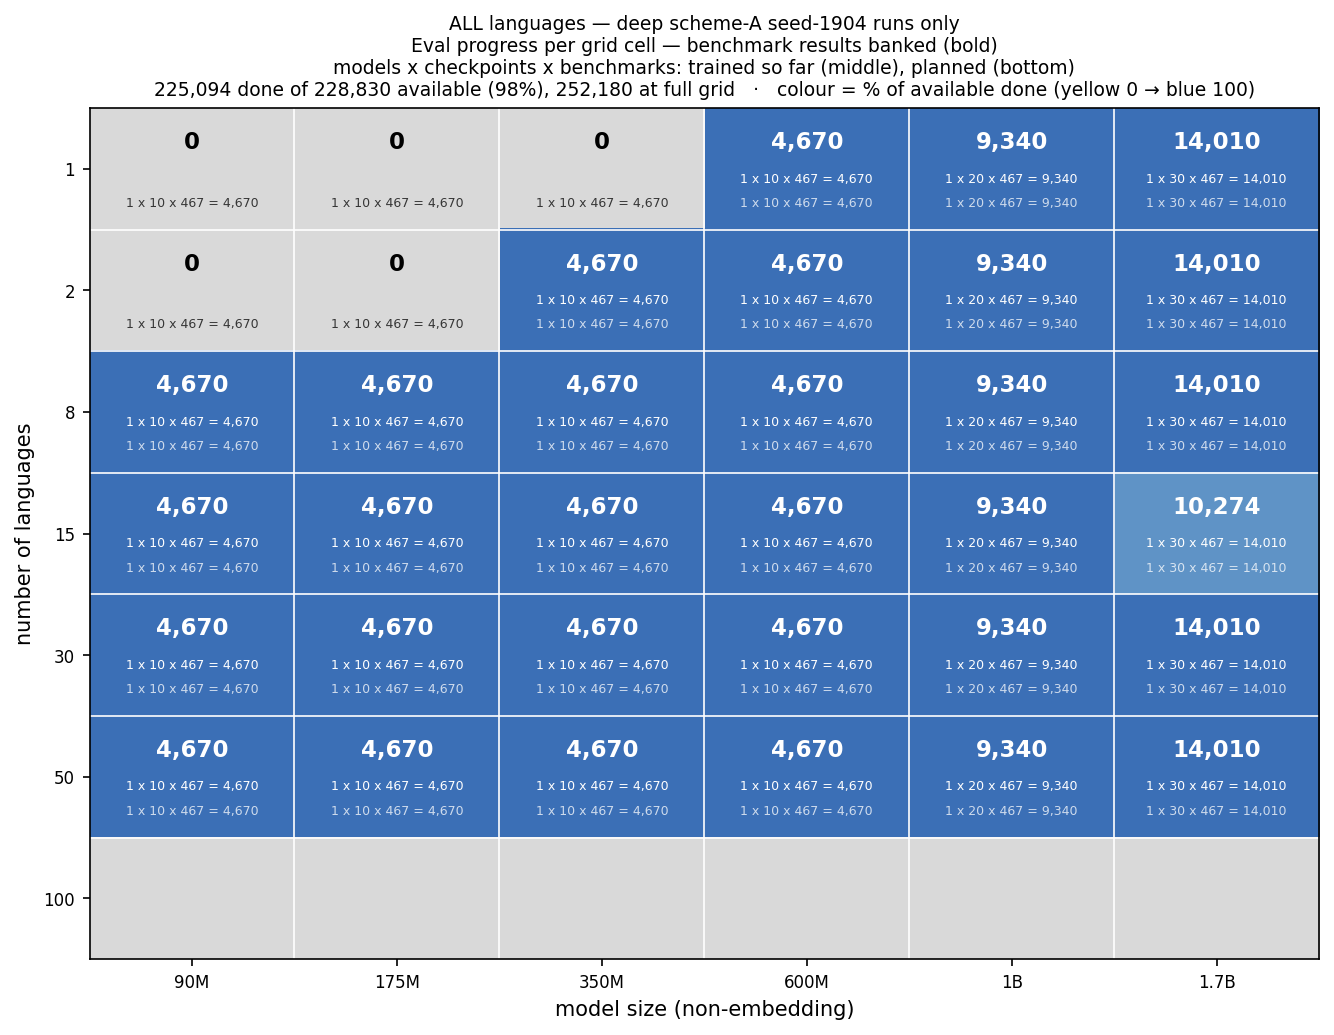
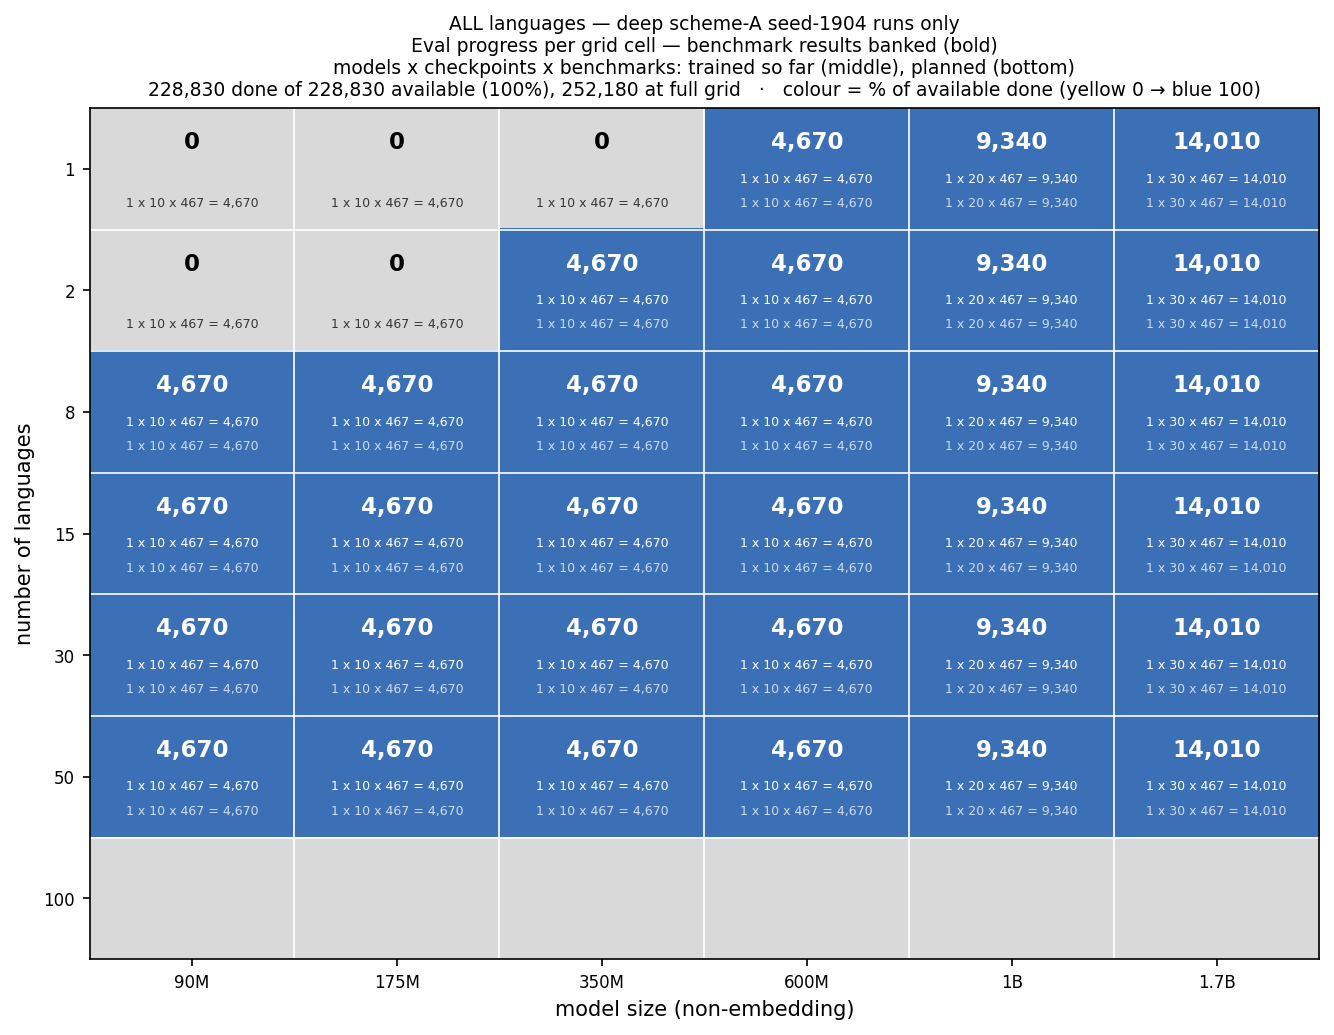
update progress
Snapshot 2026-09-18 14:51 of the 1B/1.7B runs (four more 1B shallow cells
done, 1.7B-L15-shallow running) and the progress heatmaps; the
eval-progress grid no longer carries the 90M rung.

Changed region(s): [[0.8298, 0.4329, 1.0, 0.5874], [0.1229, 0.0618, 0.5532, 0.0928], [0.584, 0.0618, 0.9528, 0.0928]]

diff --git a/src/pretrain/pretrain_progress_1b_17b.md b/src/pretrain/pretrain_progress_1b_17b.md
@@ -3,7 +3,7 @@
 <!-- Generated by pretrain_progress.py (--plot, every `launch_trainings.py cscs`
 launch, every auto-eval watcher pass) — do not edit. -->
 
-Snapshot 2026-09-17 11:57. One row per planned run, deep then shallow, of
+Snapshot 2026-09-18 15:22. One row per planned run, deep then shallow, of
 every account: the queue is read for all users, the training logs from both
 mariagrandury's and aromanou's log dirs, the checkpoints from the shared
 `Meg-Runs/msnr` tree.
@@ -21,7 +21,7 @@ mariagrandury's and aromanou's log dirs, the checkpoints from the shared
   running one does not (what it trains before its exit is subtracted first).
   At `ITER_MS` with 10.8h of training per job.
 
-## 1B — 44 runs: 19 done · 6 queued · 2 idle · 17 not started · ≈ 5,797 node-hours of training left
+## 1B — 44 runs: 23 done · 3 queued · 1 idle · 17 not started · ≈ 4,790 node-hours of training left
 
 | run | data (FineWeb-2) | ckpt / target | % | state | jobs left |
 |---|---|---|---:|---|---:|
@@ -50,19 +50,19 @@ mariagrandury's and aromanou's log dirs, the checkpoints from the shared
 | `lm-1B-L2-ES-deep-seed1904` | `data/ES/fineweb_L2` | 24,003 / 45,720 | 52% | ⚠ idle: nothing queued | 1 |
 | `lm-1B-L1-shallow-seed28` | English only | 0 / 45,920 | 0% | not started | 2 |
 | `lm-1B-L1-shallow-seed1797` | English only | 0 / 45,920 | 0% | not started | 2 |
-| `lm-1B-L1-shallow-seed1904` | English only | 0 / 45,920 | 0% | queued `3409369` (aromanou, PartitionDown) | 2 |
+| `lm-1B-L1-shallow-seed1904` | English only | 45,920 / 45,920 | 100% | done | — |
 | `lm-1B-L2-shallow-seed28` | `data/fineweb_L2` | 0 / 45,920 | 0% | not started | 2 |
 | `lm-1B-L2-shallow-seed1797` | `data/fineweb_L2` | 0 / 45,920 | 0% | not started | 2 |
-| `lm-1B-L2-shallow-seed1904` | `data/fineweb_L2` | 43,027 / 45,920 | 93% | ⚠ idle: nothing queued | 1 |
-| `lm-1B-L8-shallow-seed1904` | `data/fineweb_L8` | 0 / 45,920 | 0% | queued `3409371` (aromanou, PartitionDown) | 2 |
-| `lm-1B-L15-shallow-seed1904` | `data/fineweb_L15` | 0 / 45,920 | 0% | queued `3409372` (aromanou, PartitionDown) | 2 |
+| `lm-1B-L2-shallow-seed1904` | `data/fineweb_L2` | 43,027 / 45,920 | 93% | queued `3424653` (aromanou, QOSGrpNodeLimit), starts ~Fri 18 Sep 16:41 | 1 |
+| `lm-1B-L8-shallow-seed1904` | `data/fineweb_L8` | 0 / 45,920 | 0% | queued `3424654` (aromanou, QOSGrpNodeLimit), starts ~Fri 18 Sep 16:41 | 2 |
+| `lm-1B-L15-shallow-seed1904` | `data/fineweb_L15` | 45,920 / 45,920 | 100% | done | — |
 | `lm-1B-L30-shallow-seed28` | `data/fineweb_L30` | 0 / 45,920 | 0% | not started | 2 |
 | `lm-1B-L30-shallow-seed1797` | `data/fineweb_L30` | 0 / 45,920 | 0% | not started | 2 |
-| `lm-1B-L30-shallow-seed1904` | `data/fineweb_L30` | 0 / 45,920 | 0% | queued `3409373` (aromanou, PartitionDown) | 2 |
+| `lm-1B-L30-shallow-seed1904` | `data/fineweb_L30` | 45,920 / 45,920 | 100% | done | — |
 | `lm-1B-L50-shallow-seed28` | `data/fineweb_L50` | 0 / 45,920 | 0% | not started | 2 |
 | `lm-1B-L50-shallow-seed1797` | `data/fineweb_L50` | 0 / 45,920 | 0% | not started | 2 |
-| `lm-1B-L50-shallow-seed1904` | `data/fineweb_L50` | 0 / 45,920 | 0% | queued `3409374` (aromanou, PartitionDown) | 2 |
-| `lm-1B-L50-AT3-shallow-seed1904` | `data/AT3/fineweb_L50` | 22,960 / 45,920 | 50% | queued `3418344` (mariagrandury, ReqNodeNotAvail, Reserved for maintenance), starts ~Thu 17 Sep 18:00 | 1 |
+| `lm-1B-L50-shallow-seed1904` | `data/fineweb_L50` | 45,920 / 45,920 | 100% | done | — |
+| `lm-1B-L50-AT3-shallow-seed1904` | `data/AT3/fineweb_L50` | 22,960 / 45,920 | 50% | queued `3427719` (mariagrandury, Priority), starts ~Fri 18 Sep 16:38 | 1 |
 | `lm-1B-L100-AT3-shallow-seed1904` | — (not staged) | 0 / 45,920 | 0% | not started | 2 |
 | `lm-1B-L8-schemeB-shallow-seed1904` | `data/schemeB/fineweb_L8` | 0 / 45,920 | 0% | not started | 2 |
 | `lm-1B-L15-schemeB-shallow-seed1904` | `data/schemeB/fineweb_L15` | 0 / 45,920 | 0% | not started | 2 |
@@ -70,7 +70,7 @@ mariagrandury's and aromanou's log dirs, the checkpoints from the shared
 | `lm-1B-L30-schemeB-shallow-seed1797` | `data/schemeB/fineweb_L30` | 0 / 45,920 | 0% | not started | 2 |
 | `lm-1B-L30-schemeB-shallow-seed1904` | `data/schemeB/fineweb_L30` | 0 / 45,920 | 0% | not started | 2 |
 
-## 1.7B — 22 runs: 17 done · 3 queued · 2 not started · ≈ 2,301 node-hours of training left
+## 1.7B — 22 runs: 17 done · 1 running · 2 queued · 2 not started · ≈ 1,782 node-hours of training left
 
 | run | data (FineWeb-2) | ckpt / target | % | state | jobs left |
 |---|---|---|---:|---|---:|
@@ -83,15 +83,15 @@ mariagrandury's and aromanou's log dirs, the checkpoints from the shared
 | `lm-1.7B-L50-AT3-deep-seed1904` | `data/AT3/fineweb_L50` | 81,000 / 81,000 | 100% | done | — |
 | `lm-1.7B-L100-AT3-deep-seed1904` | — (not staged) | 0 / 81,000 | 0% | not started | 3 |
 | `lm-1.7B-L8-schemeB-deep-seed1904` | `data/schemeB/fineweb_L8` | 81,000 / 81,000 | 100% | done | — |
-| `lm-1.7B-L15-schemeB-deep-seed1904` | `data-92B/schemeB/fineweb_L15` | 24,300 / 81,000 | 30% | queued `3415744` (mariagrandury, ReqNodeNotAvail, Reserved for maintenance), starts ~Thu 17 Sep 18:00 | 2 |
+| `lm-1.7B-L15-schemeB-deep-seed1904` | `data-92B/schemeB/fineweb_L15` | 57,954 / 81,000 | 71% | queued `3433427` (mariagrandury, QOSGrpNodeLimit), starts ~Fri 18 Sep 16:44 | 1 |
 | `lm-1.7B-L30-schemeB-deep-seed1904` | `data/schemeB/fineweb_L30` | 81,000 / 81,000 | 100% | done | — |
 | `lm-1.7B-L1-shallow-seed1904` | English only | 80,640 / 80,640 | 100% | done | — |
 | `lm-1.7B-L2-shallow-seed1904` | `data/fineweb_L2` | 80,640 / 80,640 | 100% | done | — |
 | `lm-1.7B-L8-shallow-seed1904` | `data/fineweb_L8` | 80,640 / 80,640 | 100% | done | — |
-| `lm-1.7B-L15-shallow-seed1904` | `data-92B/fineweb_L15` | 31,741 / 80,640 | 39% | queued `3415746` (mariagrandury, ReqNodeNotAvail, Reserved for maintenance), starts ~Thu 17 Sep 18:00 | 2 |
+| `lm-1.7B-L15-shallow-seed1904` | `data-92B/fineweb_L15` | 59,136 / 80,640 | 74% | running `3421166` (mariagrandury), iter 60,162, job ends Fri 18 Sep 18:23 | 1 |
 | `lm-1.7B-L30-shallow-seed1904` | `data/fineweb_L30` | 80,640 / 80,640 | 100% | done | — |
 | `lm-1.7B-L50-shallow-seed1904` | `data-92B/fineweb_L50` | 80,640 / 80,640 | 100% | done | — |
-| `lm-1.7B-L50-AT3-shallow-seed1904` | `data/AT3/fineweb_L50` | 32,729 / 80,640 | 40% | queued `3415763` (mariagrandury, ReqNodeNotAvail, Reserved for maintenance), starts ~Thu 17 Sep 18:00 | 2 |
+| `lm-1.7B-L50-AT3-shallow-seed1904` | `data/AT3/fineweb_L50` | 41,664 / 80,640 | 51% | queued `3433428` (mariagrandury, QOSGrpNodeLimit), starts ~Fri 18 Sep 16:44 | 2 |
 | `lm-1.7B-L100-AT3-shallow-seed1904` | — (not staged) | 0 / 80,640 | 0% | not started | 3 |
 | `lm-1.7B-L8-schemeB-shallow-seed1904` | `data/schemeB/fineweb_L8` | 80,640 / 80,640 | 100% | done | — |
 | `lm-1.7B-L15-schemeB-shallow-seed1904` | `data-92B/schemeB/fineweb_L15` | 80,640 / 80,640 | 100% | done | — |
@@ -113,13 +113,13 @@ cd /iopsstor/scratch/cscs/mariagrandury/Projects/snr-multilingual/src && conda a
 python3.11 pretrain/launch_trainings.py cscs --size 1B  # 2 incomplete: 2 not started
 # python3.11 pretrain/launch_trainings.py cscs --size 1B --scheme AT3  # 1 incomplete: 1 not started; data not staged for L100
 python3.11 pretrain/launch_trainings.py cscs --size 1B --scheme ES  # 1 incomplete: 1 idle
-python3.11 pretrain/launch_trainings.py cscs --size 1B --arch shallow  # 14 incomplete: 8 not started, 5 queued, 1 idle
+python3.11 pretrain/launch_trainings.py cscs --size 1B --arch shallow  # 10 incomplete: 8 not started, 2 queued
 python3.11 pretrain/launch_trainings.py cscs --size 1B --scheme AT3 --arch shallow  # 2 incomplete: 1 queued, 1 not started; data not staged for L100
 python3.11 pretrain/launch_trainings.py cscs --size 1B --scheme B --arch shallow  # 5 incomplete: 5 not started
 
 # 1.7B
 # python3.11 pretrain/launch_trainings.py cscs --size 1.7B --scheme AT3  # 1 incomplete: 1 not started; data not staged for L100
 python3.11 pretrain/launch_trainings.py cscs --size 1.7B --scheme B  # 1 incomplete: 1 queued
-python3.11 pretrain/launch_trainings.py cscs --size 1.7B --arch shallow  # 1 incomplete: 1 queued
+python3.11 pretrain/launch_trainings.py cscs --size 1.7B --arch shallow  # 1 incomplete: 1 running
 python3.11 pretrain/launch_trainings.py cscs --size 1.7B --scheme AT3 --arch shallow  # 2 incomplete: 1 queued, 1 not started; data not staged for L100
 ```
